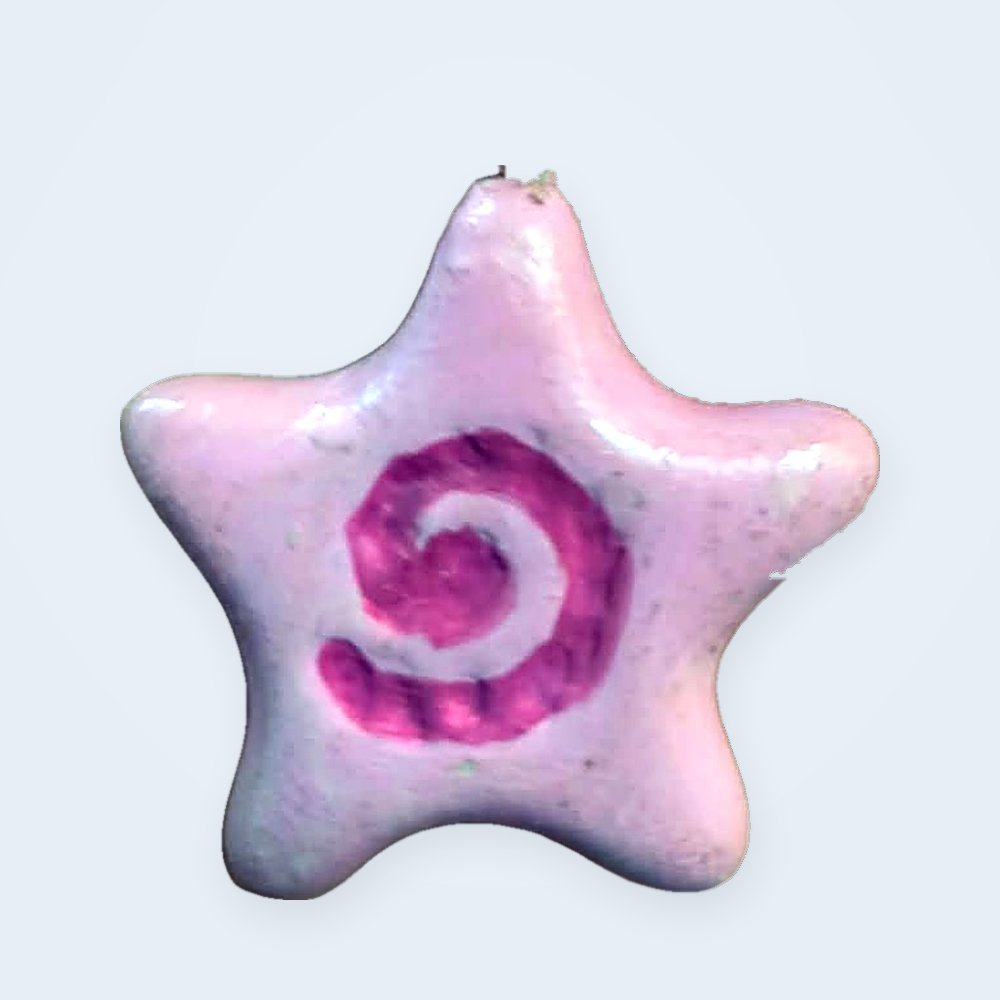
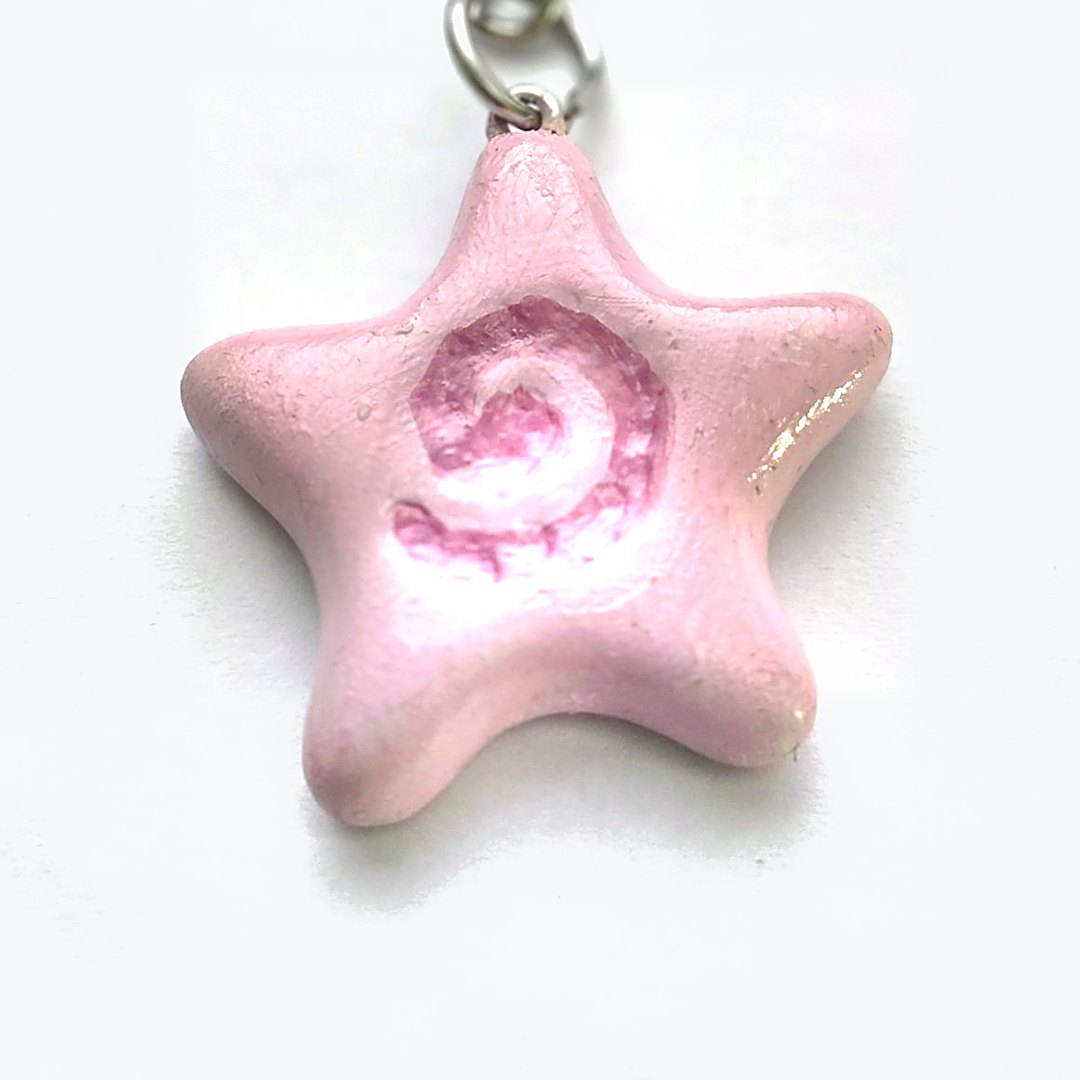
New product photos, 'from' prices and a For the two of you section
- 13 new photos (5 new pieces: 3 black & gold keychains, pastel arc keychain, sun & moon canvas pair)
- Prices show as 'from ₹90' / 'from ₹70' (editable: Page text > Word before prices)
- New couples section after the hero (products with 'Show in For the two of you' on)
- Updated link-preview image

Claude-Session: https://claude.ai/code/session_014vdecjsfNAjsdGQbTTEi26

diff --git a/assets/js/main.js b/assets/js/main.js
@@ -42,7 +42,7 @@
   function render({ page, shop, reviews, faq, contact }) {
     renderText(page || {});
     wireContact(contact || {});
-    renderShop(shop || {});
+    renderShop(shop || {}, page || {});
     renderReviews(Array.isArray(reviews) ? reviews : []);
     renderFaq(Array.isArray(faq) ? faq : []);
     wireContactLinks(document);
@@ -133,22 +133,60 @@
   let currentFilter = "all";
   let products = [];
   let prices = {};
+  let pricePrefix = ""; // e.g. "from" → "from ₹90". Set in content/page.json (price_prefix); empty = just "₹90"
   const catById = Object.fromEntries(CATEGORIES.map((c) => [c.id, c]));
   const priceOf = (p) => (hasValue(p.price) ? Number(p.price) : hasValue(prices[p.category]) ? Number(prices[p.category]) : null);
+  const isOn = (v) => v === true || v === "true";
+  // Price label: "from ₹90" (prefix small and lighter)
+  const priceHtml = (n) => `${pricePrefix ? `<small class="from">${esc(pricePrefix)}</small> ` : ""}${rupees(n)}`;
+  const priceWords = (n) => `${pricePrefix ? pricePrefix + " " : ""}${rupees(n)}`;
 
-  function renderShop(shop) {
+  function renderShop(shop, page) {
     prices = shop.prices || {};
+    pricePrefix = hasValue(page.price_prefix) ? String(page.price_prefix).trim() : "";
     products = (shop.products || []).filter((p) => hasValue(p.name) && hasValue(p.image));
 
     // Price tiles in the hero, for categories that have a price
     $("#price-tiles").innerHTML = CATEGORIES
       .filter((c) => hasValue(prices[c.id]))
       .slice(0, 3)
-      .map((c) => `<div class="price-tile"><b>${rupees(prices[c.id])}</b><small>${esc(c.label)}</small></div>`)
+      .map((c) => `<div class="price-tile"><b>${priceHtml(prices[c.id])}</b><small>${esc(c.label)}</small></div>`)
       .join("");
 
     renderFilters();
     renderProducts();
+    renderCouples();
+  }
+
+  /* ---------- For two (couples) ---------- */
+  function renderCouples() {
+    const list = products.filter((p) => isOn(p.couple));
+    const section = $("#for-two");
+    section.hidden = !list.length;
+    if (!list.length) return;
+    $("#two-list").innerHTML = list.map((p) => {
+      const price = priceOf(p);
+      const hasPrice = price != null && !Number.isNaN(price);
+      const message = hasPrice
+        ? `Hi Luna! I would love the ${p.name} (${priceWords(price)}) as a pair. Could you make it for us?`
+        : `Hi Luna! I love the ${p.name} for the two of us. Could you tell me the price?`;
+      return `
+        <article class="two-card">
+          <div class="two-photo">
+            <img src="${esc(imgPath(p.image))}" alt="${esc(hasValue(p.alt) ? p.alt : p.name)}" loading="lazy" width="1000" height="1000">
+            <span class="pair-badge"><svg width="22" height="12" viewBox="0 0 22 12" aria-hidden="true"><circle cx="6" cy="6" r="4.5" fill="none" stroke="currentColor" stroke-width="1.8"/><circle cx="16" cy="6" r="4.5" fill="none" stroke="currentColor" stroke-width="1.8"/></svg>Set of two</span>
+          </div>
+          <div class="two-body">
+            <h3>${hearts(esc(p.name))}</h3>
+            ${hasValue(p.description) ? `<p>${hearts(esc(p.description))}</p>` : ""}
+            <div class="two-foot">
+              ${hasPrice ? `<b>${priceHtml(price)}</b>` : `<b class="ask-price">On request</b>`}
+              <a class="ask press" data-link="whatsapp" data-message="${esc(message)}" href="#" target="_blank" rel="noopener">${hasPrice ? "Ask for this pair" : "Ask for price"}</a>
+            </div>
+          </div>
+        </article>`;
+    }).join("");
+    wireContactLinks($("#two-list"));
   }
 
   function renderFilters() {
@@ -164,7 +202,7 @@
     const hangs = p.hanging === true || p.hanging === "true";
     const tag = catById[p.category]?.tag || "";
     const message = hasPrice
-      ? `Hi Luna! I would love a ${p.name} (${rupees(price)}). Could you make one for me?`
+      ? `Hi Luna! I would love a ${p.name} (${priceWords(price)}). Could you make one for me?`
       : `Hi Luna! I love the ${p.name}. Could you tell me the price?`;
     return `
       <article class="card">
@@ -178,7 +216,7 @@
         <h3>${hearts(esc(p.name))}</h3>
         ${hasValue(p.description) ? `<p>${hearts(esc(p.description))}</p>` : ""}
         <div class="meta">
-          ${hasPrice ? `<b>${rupees(price)}</b>` : `<b class="ask-price">On request</b>`}
+          ${hasPrice ? `<b>${priceHtml(price)}</b>` : `<b class="ask-price">On request</b>`}
           <span>Made to order</span>
         </div>
         <a class="ask press" data-link="whatsapp" data-message="${esc(message)}" href="#" target="_blank" rel="noopener">${hasPrice ? "Ask to buy" : "Ask for price"}</a>

diff --git a/assets/css/style.css b/assets/css/style.css
@@ -172,11 +172,39 @@ h2 { font-family: var(--font-display); font-weight: 400; font-size: clamp(1.75re
 .card h3 { font-family: var(--font-display); font-weight: 400; font-size: 1.0625rem; line-height: 1.2; margin: 10px 4px 2px; text-wrap: balance; }
 .card p { font-size: 0.84375rem; line-height: 1.4; color: var(--muted); margin: 0 4px 8px; }
 .meta { display: flex; align-items: center; justify-content: space-between; gap: 6px; margin: auto 4px 8px; }
-.meta b { font-size: 1.125rem; font-weight: 700; font-variant-numeric: tabular-nums; }
+.meta b { font-size: 1.125rem; font-weight: 700; font-variant-numeric: tabular-nums; white-space: nowrap; }
 .meta b.ask-price { font-size: 0.9375rem; }
 .meta span { font-size: 0.78125rem; font-weight: 600; color: var(--muted); text-align: right; }
 .load-note { grid-column: 1 / -1; padding: 24px; border: 1.5px dashed var(--sky); border-radius: 14px; text-align: center; color: var(--muted); font-weight: 600; }
 .ask { display: flex; align-items: center; justify-content: center; min-height: 44px; border-radius: var(--pill); background: var(--navy); color: var(--white); font-weight: 600; font-size: 0.9375rem; text-decoration: none; }
+
+/* "from ₹90": the word is smaller and lighter so the number stays the hero */
+.from { font-family: var(--font-body); font-size: 0.72em; font-weight: 600; letter-spacing: 0; opacity: 0.8; }
+.price-tile .from { font-size: 0.5em; vertical-align: 0.2em; opacity: 0.85; }
+
+/* ---------- For two (couples) ---------- */
+.for-two { padding: 8px 0 44px; }
+.two-head { display: flex; align-items: center; gap: 14px; }
+.two-mark { flex: none; }
+.two-head h2 { line-height: 1.1; }
+.two-head .hand { display: block; margin-top: 2px; }
+.two-text { margin: 12px 0 18px; color: var(--muted); max-width: 52ch; }
+.two-rail {
+  display: flex; gap: 14px; margin: 0 calc(-1 * var(--gutter)); padding: 4px var(--gutter) 14px;
+  overflow-x: auto; scrollbar-width: none; scroll-snap-type: x mandatory; scroll-padding-inline: var(--gutter);
+}
+.two-rail::-webkit-scrollbar { display: none; }
+.two-card { flex: 0 0 78%; scroll-snap-align: start; display: flex; flex-direction: column; overflow: hidden; border-radius: 20px; background: var(--white); box-shadow: 0 1px 0 var(--mist), 0 8px 22px rgba(19, 35, 69, 0.08); }
+.two-photo { position: relative; aspect-ratio: 1 / 1; overflow: hidden; background: var(--tile); }
+.two-photo img { position: absolute; inset: 0; width: 100%; height: 100%; object-fit: cover; }
+.pair-badge { position: absolute; top: 10px; left: 10px; display: inline-flex; align-items: center; gap: 6px; padding: 4px 10px; border-radius: var(--pill); background: var(--navy); color: var(--white); font-size: 0.75rem; font-weight: 700; }
+.two-body { display: flex; flex-direction: column; gap: 6px; flex: 1; padding: 14px 16px 16px; }
+.two-body h3 { font-family: var(--font-display); font-weight: 400; font-size: 1.25rem; line-height: 1.2; }
+.two-body p { font-size: 0.90625rem; line-height: 1.45; color: var(--muted); }
+.two-foot { display: flex; align-items: center; justify-content: space-between; gap: 12px; margin-top: auto; padding-top: 10px; }
+.two-foot b { font-size: 1.125rem; font-weight: 700; white-space: nowrap; }
+.two-foot b.ask-price { font-size: 0.9375rem; }
+.two-foot .ask { padding: 0 18px; white-space: nowrap; }
 
 /* ---------- Reviews ---------- */
 .rail {
@@ -248,11 +276,17 @@ h2 { font-family: var(--font-display); font-weight: 400; font-size: clamp(1.75re
 /* =====================================================================
    BIGGER SCREENS
    ===================================================================== */
-@media (max-width: 519px) { .lg-only { display: none; } }
+@media (max-width: 519px) {
+  .lg-only { display: none; }
+  .meta span { display: none; } /* "made again" is already promised in the trust row; keeps small cards tidy */
+}
 
 @media (min-width: 640px) {
   :root { --gutter: 28px; }
   .grid { grid-template-columns: repeat(3, minmax(0, 1fr)); gap: 18px; }
+  .for-two { padding: 16px 0 56px; }
+  .two-rail { display: grid; grid-template-columns: repeat(3, minmax(0, 1fr)); gap: 20px; margin: 0; padding: 4px 0 8px; overflow: visible; }
+  .two-card { flex: none; }
   .chips { flex-wrap: wrap; overflow: visible; margin: 0 0 20px; padding: 2px 0; -webkit-mask-image: none; mask-image: none; }
   .trust { display: flex; justify-content: center; gap: 40px; }
   .trust div { display: flex; align-items: center; gap: 10px; font-size: 0.9375rem; }

diff --git a/index.html b/index.html
@@ -11,7 +11,7 @@
        change og:image and og:url to the full address, e.g. https://yoursite.com/assets/img/og-image.jpg -->
   <meta property="og:type" content="website">
   <meta property="og:title" content="Luna — handmade clay charms & canvas art">
-  <meta property="og:description" content="Tiny clay charms and moonlit canvases, made just for you. Keychains ₹90 · Phone charms ₹70.">
+  <meta property="og:description" content="Tiny clay charms and moonlit canvases, made just for you. Keychains from ₹90 · Phone charms from ₹70.">
   <meta property="og:image" content="assets/img/og-image.jpg">
   <meta property="og:url" content="">
   <meta name="twitter:card" content="summary_large_image">
@@ -123,6 +123,24 @@
       <div><svg width="26" height="26" viewBox="0 0 24 24" fill="none" stroke="currentColor" stroke-width="1.8" stroke-linecap="round" aria-hidden="true"><path d="M20 12a8 8 0 1 1-2.3-5.7"/><path d="M20 4v4h-4"/></svg><span data-trust="1">Made again on request</span></div>
       <div><svg width="26" height="26" aria-hidden="true"><use href="#i-chat"/></svg><span data-trust="2">Order in one tap</span></div>
     </div>
+
+    <!-- ================= FOR TWO (couples) — products marked "couple" in content/shop.json ================= -->
+    <section id="for-two" class="for-two" aria-labelledby="two-h" hidden>
+      <div class="wrap">
+        <div class="two-head">
+          <svg class="two-mark" width="58" height="30" viewBox="0 0 58 30" aria-hidden="true">
+            <circle cx="15" cy="15" r="11" fill="#F2D27A"/>
+            <path d="M47 4a11 11 0 1 0 6.6 19.6A9 9 0 1 1 47 4Z" fill="#132345"/>
+          </svg>
+          <div>
+            <h2 id="two-h" data-text="couples_title">For the two of you</h2>
+            <span class="hand" data-text="couples_note">made in pairs <span aria-hidden="true">♡</span></span>
+          </div>
+        </div>
+        <p class="two-text" data-text="couples_text">Pieces that come in twos: one for you, one for your person. Lovely for couples, best friends and sisters.</p>
+        <div class="two-rail" id="two-list"></div>
+      </div>
+    </section>
 
     <!-- ================= SHOP ================= -->
     <section id="shop" class="wrap section-shop" aria-labelledby="shop-h">
